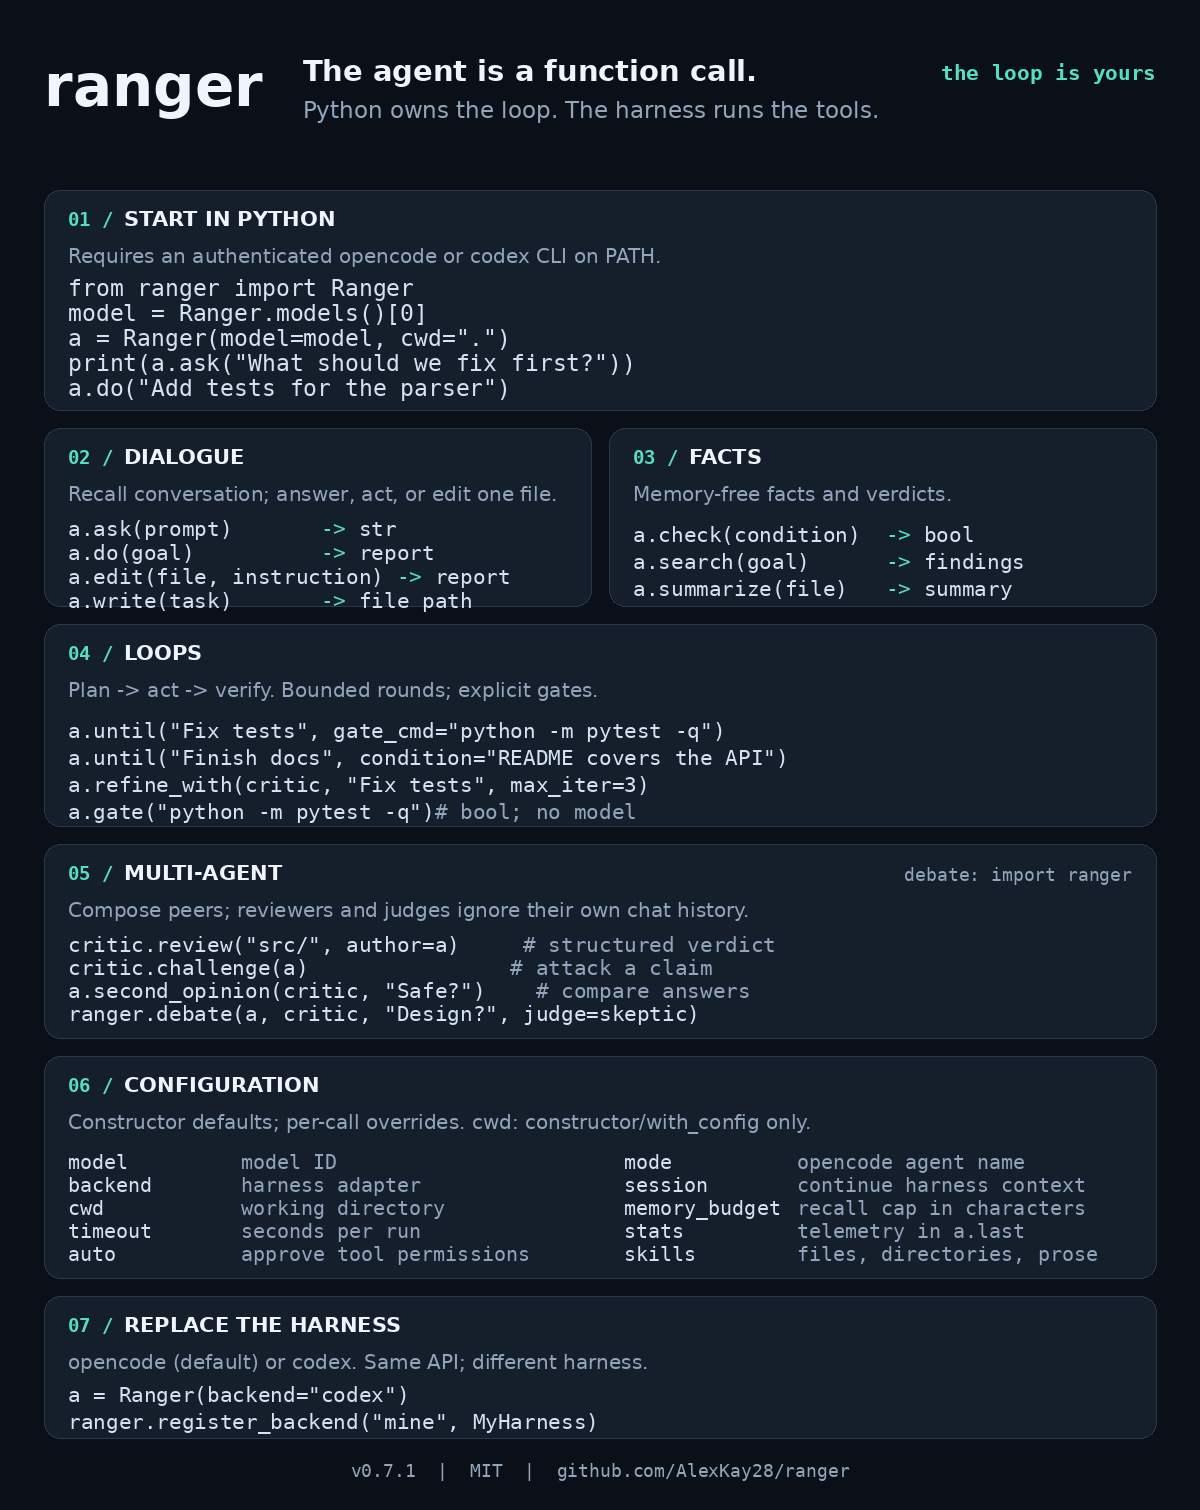
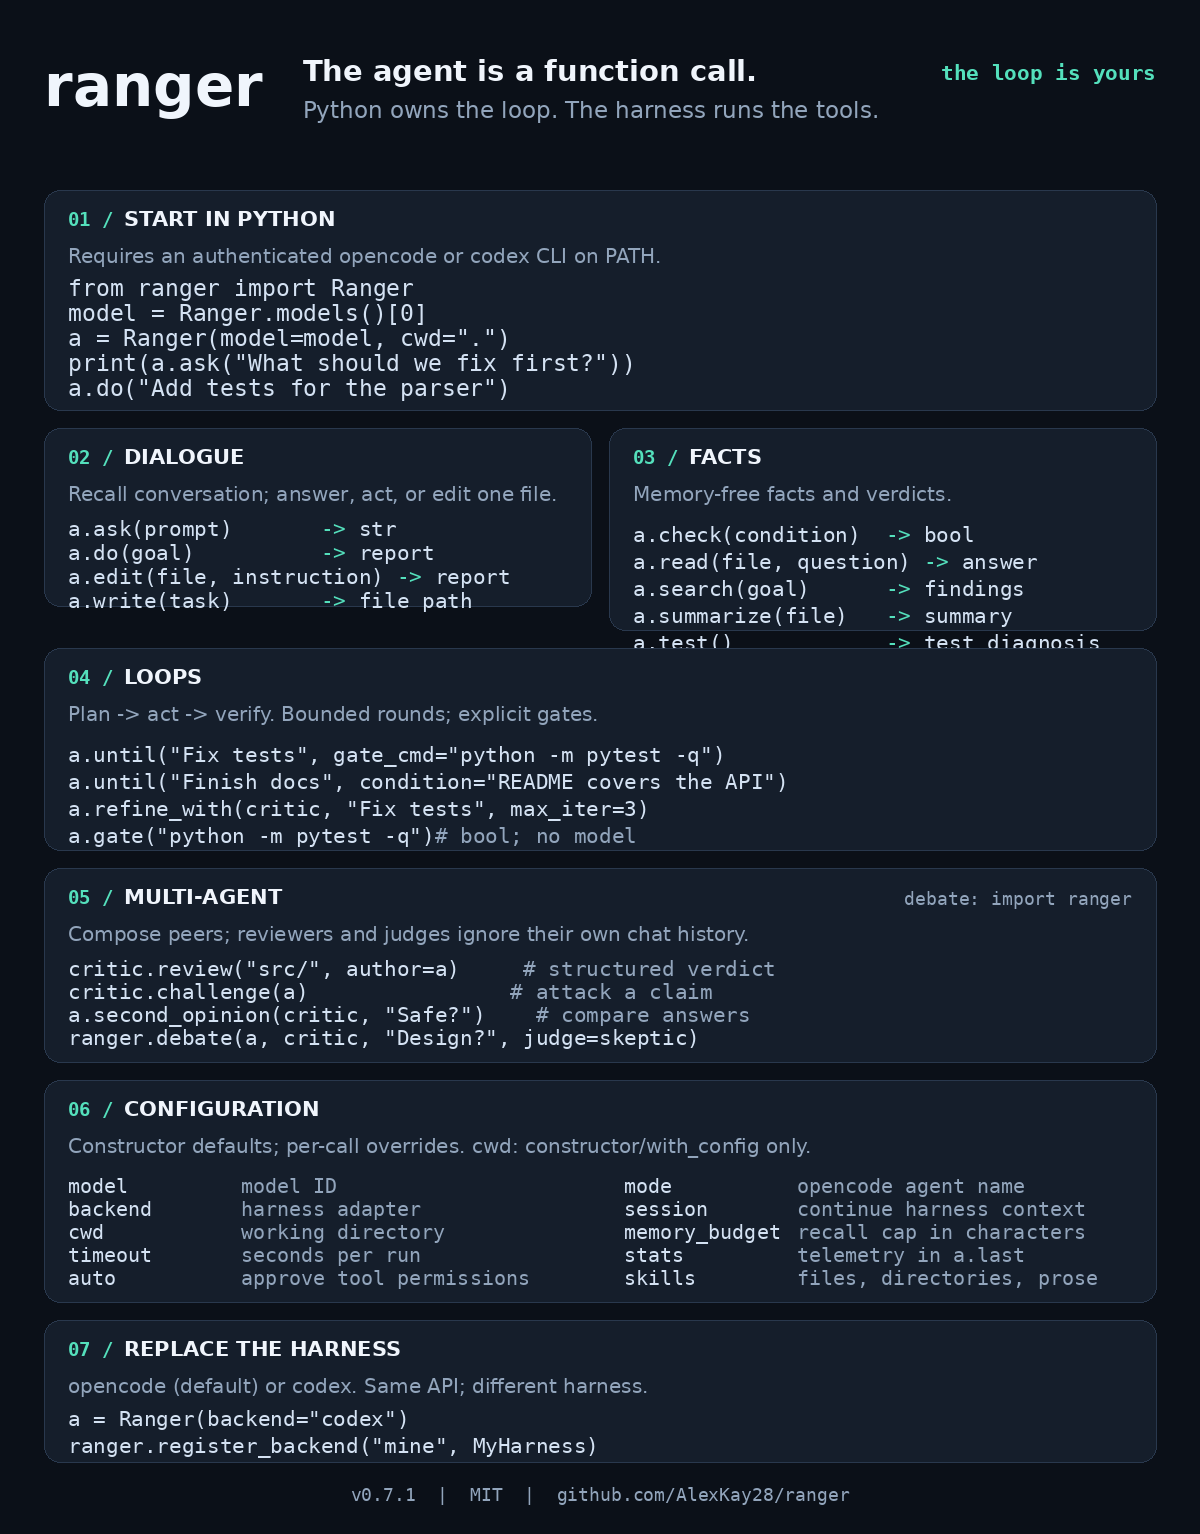
auto evolve (cycle 2): Add a targeted `read(file, question)` command
Self-directed improvement picked and resolved by scripts/evolve_loop.py via ranger.resolve(); gate: full pytest suite green + real-change check.

Original proposal: Thinking: **Planning file inspection with response limit**
Thinking: **Deciding precise read function approach**
TITLE: Add a targeted `read(file, question)` command
WHY: Let users ask a precise, read-only question about one file without spending a broader `ask()` call or accepting a generic summary. Its scoped prompt contract and mocked tests are mechanically verifiable with `python -m pytest -q`

diff --git a/tests/test_ranger.py b/tests/test_ranger.py
@@ -281,6 +281,7 @@ def test_command_prompt_contents(tmp_path):
 
     with mock.patch("ranger.subprocess.run", side_effect=capture):
         agent.summarize(target)
+        assert agent.read("notes.md", "What is the heading?", timeout=42) == "ok"
         agent.do("rename the files")
         target.write_text("before")
         agent.edit(target, "replace the text")
@@ -288,15 +289,18 @@ def test_command_prompt_contents(tmp_path):
         assert agent.test(timeout=42) == "ok"
 
     assert str(target.resolve()) in prompts[0]
-    assert "rename the files" in prompts[1]
-    assert str(target.resolve()) in prompts[2]
-    assert "replace the text" in prompts[2]
-    assert "only that file" in prompts[2]
-    assert "where is config parsed" in prompts[3]
-    assert "No code changes" in prompts[3]
-    assert "test suite" in prompts[4]
-    assert "do NOT modify" in prompts[4]
-    assert "root cause" in prompts[4]
+    assert str(target.resolve()) in prompts[1]
+    assert "What is the heading?" in prompts[1]
+    assert "do NOT modify" in prompts[1]
+    assert "rename the files" in prompts[2]
+    assert str(target.resolve()) in prompts[3]
+    assert "replace the text" in prompts[3]
+    assert "only that file" in prompts[3]
+    assert "where is config parsed" in prompts[4]
+    assert "No code changes" in prompts[4]
+    assert "test suite" in prompts[5]
+    assert "do NOT modify" in prompts[5]
+    assert "root cause" in prompts[5]
 
 
 def test_test_returns_harness_diagnosis_and_forwards_overrides():
@@ -310,6 +314,26 @@ def test_test_returns_harness_diagnosis_and_forwards_overrides():
     assert cmd[cmd.index("--model") + 1] == "fast/model"
     assert m.call_args.kwargs["timeout"] == 42
     assert agent.last["label"] == "test"
+
+
+def test_read_answers_one_file_question_and_forwards_overrides(tmp_path):
+    agent = Ranger(cwd=tmp_path, stats=True, session="ses_hist")
+    agent.context = [{"role": "user", "content": "previous answer"}]
+    payload = ('{"sessionID":"ses_read","part":{"type":"text",'
+               '"text":"It accepts strings."}}')
+    with mock.patch("ranger.subprocess.run", return_value=fake_run(payload)) as m:
+        assert agent.read("parser.py", "What inputs does it accept?",
+                          model="fast/model", timeout=42) == "It accepts strings."
+    cmd = m.call_args.args[0]
+    prompt = cmd[-1]
+    assert str(tmp_path / "parser.py") in prompt
+    assert "What inputs does it accept?" in prompt
+    assert "do NOT modify" in prompt
+    assert "Previous interaction" not in prompt
+    assert "ses_hist" not in cmd
+    assert cmd[cmd.index("--model") + 1] == "fast/model"
+    assert m.call_args.kwargs["timeout"] == 42
+    assert agent.last["label"] == "read"
 
 
 def test_edit_requires_a_changed_target_and_forwards_overrides(tmp_path):
@@ -942,13 +966,14 @@ def test_check_accepts_verdict_line_after_chatter():
 # paradigm law: context memory colors dialogues, never facts
 
 def test_recall_is_skipped_for_pure_commands():
-    """check/search/summarize run history-independent; ask/do recall."""
+    """check/read/search/summarize run history-independent; ask/do recall."""
     agent = Ranger()
     agent.context = [
         {"role": "user", "content": "we agreed the PORT is 8080"},
         {"role": "assistant", "content": "okay, 8080 it is"},
     ]
     for label, method in (("check", lambda: agent.check("port is 8080")),
+                           ("read", lambda: agent.read("x.py", "What port is used?")),
                            ("search", lambda: agent.search("PORT usage")),
                            ("summarize", lambda: agent.summarize("x.py"))):
         with mock.patch("ranger.subprocess.run",

diff --git a/scripts/cheatsheet.py b/scripts/cheatsheet.py
@@ -20,7 +20,7 @@ import ranger  # noqa: E402  (version string comes from the source of truth)
 from PIL import Image, ImageDraw, ImageFont  # noqa: E402
 
 REPO = Path(__file__).resolve().parent.parent
-W, H = 1200, 1510
+W, H = 1200, 1534
 PAD = 24
 RADIUS = 16
 
@@ -90,18 +90,19 @@ CARDS = [
         "code_step": 24,
     },
     {
-        "bounds": (609, 428, 547, 178),
+        "bounds": (609, 428, 547, 202),
         "num": "03", "title": "FACTS",
         "desc": "Memory-free facts and verdicts.",
         "code": [
             "a.check(condition)  -> bool",
+            "a.read(file, question) -> answer",
             "a.search(goal)      -> findings",
             "a.summarize(file)   -> summary",
             "a.test()            -> test diagnosis",
         ],
     },
     {
-        "bounds": (44, 624, 1112, 202),
+        "bounds": (44, 648, 1112, 202),
         "num": "04", "title": "LOOPS",
         "desc": "Plan -> act -> verify. Bounded rounds; explicit gates.",
         "code": [
@@ -112,7 +113,7 @@ CARDS = [
         ],
     },
     {
-        "bounds": (44, 844, 1112, 194),
+        "bounds": (44, 868, 1112, 194),
         "num": "05", "title": "MULTI-AGENT",
         "desc": "Compose peers; reviewers and judges ignore their own chat history.",
         "note": "debate: import ranger",
@@ -126,7 +127,7 @@ CARDS = [
         "code_step": 23,
     },
     {
-        "bounds": (44, 1056, 1112, 222),
+        "bounds": (44, 1080, 1112, 222),
         "num": "06", "title": "CONFIGURATION",
         "desc": "Constructor defaults; per-call overrides. cwd: constructor/with_config only.",
         "columns": [
@@ -147,7 +148,7 @@ CARDS = [
         ],
     },
     {
-        "bounds": (44, 1296, 1112, 142),
+        "bounds": (44, 1320, 1112, 142),
         "num": "07", "title": "REPLACE THE HARNESS",
         "desc": "opencode (default) or codex. Same API; different harness.",
         "code": [
@@ -242,7 +243,7 @@ def render():
 
     footer_f = mono(18)
     fw = d.textlength(FOOTER, font=footer_f)
-    d.text(((W - fw) / 2, 1460), FOOTER, font=footer_f, fill=COMMENT)
+    d.text(((W - fw) / 2, 1484), FOOTER, font=footer_f, fill=COMMENT)
 
     out = REPO / "docs" / "cheatsheet.png"
     img.save(out, optimize=True)

diff --git a/tests/test_docs.py b/tests/test_docs.py
@@ -81,7 +81,7 @@ def test_cheatsheet_is_embedded_and_covers_the_shipped_surface():
     assert width >= 1000 and height >= 1200
     # Public commands and the extensibility seam must occur in the source
     # data that renders the card. New API -> this gate reminds us to redraw.
-    for command in ("ask", "do", "edit", "write", "check", "search", "summarize", "test",
+    for command in ("ask", "do", "edit", "write", "check", "read", "search", "summarize", "test",
                     "gate", "until", "review", "challenge", "second_opinion",
                     "refine_with", "debate", "register_backend"):
         assert command in CHEATSHEET_SOURCE, (
@@ -134,7 +134,7 @@ def test_every_shipped_command_has_an_example_usage():
     all_example_text = "\n".join(
         p.read_text() for p in sorted((REPO / "examples").rglob("*.py"))
     )
-    for command in ("ask", "summarize", "write", "do", "edit", "search", "test", "check",
+    for command in ("ask", "read", "summarize", "write", "do", "edit", "search", "test", "check",
                     "gate", "until", "models", "with_config",
                     # multi-agent interactions (v0.6)
                     "review", "challenge", "second_opinion", "refine_with",
@@ -147,7 +147,7 @@ def test_every_shipped_command_has_an_example_usage():
 # --- commands.md catalog gates -------------------------------------------
 
 # Methods the catalog may legitimately list as planned (🔜/🌱 tiers).
-PLANNED_COMMANDS = {"critique", "read",
+PLANNED_COMMANDS = {"critique",
                    "fix", "transform", "commit"}
 
 _CATALOG_HEADER = re.compile(r"^### `(?:ranger\.)?(?:Ranger\.|agent\.)?(\w+)\s*\(",

diff --git a/ranger/__init__.py b/ranger/__init__.py
@@ -420,7 +420,7 @@ register_backend("openhands", _OpenHandsBackend)
 # Commands whose answers must be pure facts about the world, never colored
 # by conversation history (paradigm law: context memory colors dialogues,
 # never facts). Recall is skipped for these; recording still happens.
-_PURE_LABELS = frozenset({"check", "search", "summarize", "test"})
+_PURE_LABELS = frozenset({"check", "read", "search", "summarize", "test"})
 
 # How many characters of recorded context a run may recall, max.
 _MEMORY_BUDGET = 20000
@@ -772,6 +772,24 @@ class Ranger:
             "Reply with the summary text only, no preamble."
         )
         return self._run(prompt, label="summarize", **ov)
+
+    def read(self, file: str | Path, question: str, **ov) -> str:
+        """Answer a specific question about one file without modifying it.
+
+        Relative paths resolve against the agent's cwd, not the Python
+        process's. This command is history- and session-independent.
+        """
+        path = Path(file)
+        if not path.is_absolute():
+            path = Path(self.cwd or Path.cwd()) / path
+        prompt = (
+            f"Read only the file at {path.resolve()}.\n\n"
+            f"Question: {question}\n\n"
+            "Reading and analysis only — do NOT modify, create, delete, or "
+            "rename any file. Answer the question directly using evidence from "
+            "that file."
+        )
+        return self._run(prompt, label="read", **ov)
 
     def write(self, task: str, path: str | Path | None = None, **ov) -> str:
         """Have the agent produce a written document/answer as a file.

diff --git a/examples/monitoring/project_health.py b/examples/monitoring/project_health.py
@@ -25,6 +25,9 @@ def main() -> None:
         "or unhandled error paths. Include file paths and line numbers."
     )
     print("\nrisks:\n", findings)
+    print("\nhealth script role:\n", agent.read(
+        "project_health.py", "What read-only checks does this script perform?"
+    ))
     print("\nagent telemetry:", agent.last)
 
 

diff --git a/docs/API.md b/docs/API.md
@@ -100,7 +100,7 @@ ranger.Ranger(
 
 ### Child process environment
 
-Every harness child process (the `ask`/`do`/`edit`/`write`/`search`/`summarize`/`test`/`check`
+Every harness child process (the `ask`/`do`/`edit`/`write`/`read`/`search`/`summarize`/`test`/`check`
 CLI runs, and the `gate()` shell command) sees exactly this environment:
 
 1. **The full inherited `os.environ` of your Python process** — nothing is
@@ -126,7 +126,7 @@ the child by design.
 
 ### Per-call overrides
 
-Every command method (`ask`, `summarize`, `write`, `do`, `edit`, `search`, `test`, `check`,
+Every command method (`ask`, `summarize`, `read`, `write`, `do`, `edit`, `search`, `test`, `check`,
 `until`) accepts any of the run settings above as a keyword, applying it to
 that single call only — **except `cwd`**, which is agent identity and is
 constructor/`with_config`-only. Unknown keywords raise `TypeError`
@@ -143,7 +143,7 @@ immediately — typos fail loudly, never silently. Priority rules:
 - `effort="high"` implies `--thinking` on that run unless nothing stronger
   was requested; `effort` ∈ {low, medium, high} — anything else raises
   (`ValueError` at construction, `TypeError` per-call).
-- **Fact commands run pure**: `check`, `search`, `summarize` and `test` drop
+- **Fact commands run pure**: `check`, `read`, `search`, `summarize` and `test` drop
   `session=` and skip history recall — a verdict is about the repo, not
   the chat.
 
@@ -172,6 +172,14 @@ Raw prompt in, raw answer out. The escape hatch all other commands build on.
 Reads a file (path may be absolute or relative) and returns a concise
 summary. **Relative paths resolve against the agent's `cwd`, never the
 Python process's.**
+
+### `read(file, question, **ov) -> str`
+
+Answers a specific question using only one file, rather than producing
+`summarize()`'s general digest. `file` may be absolute or relative to the
+agent's `cwd`; relative paths resolve against that cwd. The prompt forbids
+modifying, creating, deleting, or renaming files. Like every fact command,
+`read()` runs without recalled history or a harness session.
 
 ### `write(task, path=None, **ov) -> str`
 
@@ -431,7 +439,7 @@ for r in results:
   recall the most recent messages that fit inside `memory_budget`
   characters, prepended as a `## Previous interaction` block before the
   `## Current request`.
-- **Fact commands run pure**: `check`, `search`, `summarize` and `test` never see
+- **Fact commands run pure**: `check`, `read`, `search`, `summarize` and `test` never see
   conversation history — a verdict must not be a function of chat
   (paradigm law: context memory colors your dialogues, never your facts).
 - `memory=False` (constructor or single call) disables both recording and
@@ -740,6 +748,7 @@ keep working:
 Each command wraps your input in a frozen prompt the agent must honor:
 
 - `summarize`: read `{absolute path}`, reply summary only.
+- `read`: answer `{question}` from `{absolute path}` only, **no file changes**.
 - `write`: write the file at `{path}`, reply with the path only.
 - `do`: accomplish `{goal}` with tools, report what changed.
 - `edit`: modify only the existing `{absolute path}`, report what changed.

diff --git a/docs/commands.md b/docs/commands.md
@@ -41,7 +41,7 @@ Wipe recorded context; returns what was cleared.
 
 All commands auto-record their exchange into `agent.context` (OpenAI message
 format); dialogue commands (`ask`, `do`, `edit`, `plan`, `write`, `context_*`) also recall
-recent history within a character budget, while fact commands (`check`,
+recent history within a character budget, while fact commands (`check`, `read`,
 `search`, `summarize`, `test`) always run history- and session-independent — context
 memory colors your dialogues, never your facts. `memory=False` on the
 constructor or any single call disables recording and recall.
@@ -63,7 +63,7 @@ configured copy.
 - `stats=True` — JSON-mode runs; after each command `agent.last` holds
   `wall_s`, `model_s`, `parts`, `chars`, `session`.
 
-## ✅ Shipped — core commands (14)
+## ✅ Shipped — core commands
 
 ### `until(goal, max_iter=5, gate_cmd=None, condition=None) -> dict`
 The loop primitive. Each iteration: `ask` for ONE next step, `do` it, then a
@@ -87,6 +87,15 @@ bigger call.
 
 ```python
 agent.summarize("notes.md")
+```
+
+### `read(file, question) -> str`
+Ask a precise, read-only question about one file instead of receiving a general
+summary. The path resolves against the agent cwd; the call is history- and
+session-independent and its prompt forbids filesystem changes.
+
+```python
+agent.read("src/parser.py", "What input shapes can raise ValueError?")
 ```
 
 ### `write(task, path=None) -> str` *(returns file path)*
@@ -217,16 +226,12 @@ Adversarial attack on another agent's claim or last answer.
 ### `debate(agent_a, agent_b, topic, rounds=2, judge=None) -> dict` *(module-level)*
 Symmetric exchange, optionally refereed by a third agent.
 
-## 🔜 Next batch (planned, same pattern) (3)
+## 🔜 Next batch (planned, same pattern) (2)
 
 ### `critique(file_or_diff) -> str`
 Read-only code review of a file or diff: bugs, smells, security, missing
 tests. (Distinct from the shipped multi-agent `review`, which renders an
 APPROVE/REJECT verdict between agents; this is a prose critique of code.)
-
-### `read(file, question) -> str`
-Pointed Q&A about one file ("what inputs can crash this?"), vs `summarize`'s
-general digest.
 
 ## 🌱 Later (3)
 

diff --git a/SKILL.md b/SKILL.md
@@ -26,7 +26,7 @@ it returns. Python, not an agent runtime, owns the control flow.
 | Make a filesystem change | `do(goal)` | A claim that a change happened |
 | Change one existing file only | `edit(file, instruction)` | `do()` free rein |
 | Produce one document | `write(task, path=...)` | Parsing prose for a filename |
-| Read-only codebase findings | `search(goal)` / `summarize(file)` / `test()` | `do()` |
+| Read-only codebase findings | `search(goal)` / `summarize(file)` / `read(file, question)` / `test()` | `do()` |
 | Agent-verified fact | `check(condition)` | Truthy prose; it must parse YES/NO |
 | Deterministic acceptance | `gate(shell_command)` | An agent's opinion |
 | Bounded repair loop | `until(..., gate_cmd=..., max_iter=N)` | An unbounded `while` loop |
@@ -57,7 +57,7 @@ an exit-code boolean and does not call a model.
   interrupt message; nothing is claimed complete.
 - `ask`, `do`, `edit`, and `write` record and recall bounded `agent.context`. Treat it
   as conversational color, never as a fact store.
-- `check`, `search`, `summarize`, `test`, `review`, challenge judgments, and debate
+- `check`, `read`, `search`, `summarize`, `test`, `review`, challenge judgments, and debate
   judges are memory- and session-free by contract. Do not try to override that
   purity with `session=`.
 - A model answer is not a success signal. `check()` rejects ambiguous,

diff --git a/README.md b/README.md
@@ -79,6 +79,7 @@ package default.
 ```python
 agent = ranger.Ranger(model="openrouter/anthropic/claude-sonnet-4.5")
 agent.summarize("notes.md")          # -> str summary of the file
+agent.read("notes.md", "What decision does it make?")  # -> focused file answer
 agent.write("a one-page report on X")  # -> path of the file the agent wrote
 agent.do("rename all *.txt files in data/ to *.md")  # -> report of CLI-like work
 agent.edit("src/parser.py", "Handle empty input")   # -> one bounded file change
@@ -145,7 +146,7 @@ ranger.Ranger(memory=False)      # or a fully stateless agent
 ```
 
 Context memory colors your dialogues, never your facts: `ask`/`do`/`edit`/`write`
-recall the recent conversation; `check`/`search`/`summarize`/`test` always run
+recall the recent conversation; `check`/`read`/`search`/`summarize`/`test` always run
 history-independent, so a verdict is about the repo, not the chat
 ([PARADIGM.md](docs/PARADIGM.md), law 4).
 

diff --git a/docs/PARADIGM.md b/docs/PARADIGM.md
@@ -50,7 +50,7 @@ Python control flow**. No DSL, no graph JSON, no hidden runtime.
    ambient identity: sessions are opt-in continuation, not hidden state.
    Corollary — **context memory colors your dialogues, never your facts**:
    recall applies only to dialogue commands (`ask`, `do`, `write`,
-   `context_*`); `check`, `search` and `summarize` always run
+   `context_*`); `check`, `read`, `search` and `summarize` always run
    history-independent, because a verdict must not be a function of chat.
    The same corollary governs multi-agent interactions: reviewers,
    challengers and judges run memory- and session-free, and one agent's

diff --git a/docs/ARCHITECTURE.md b/docs/ARCHITECTURE.md
@@ -60,7 +60,7 @@ register) from plain Python. You write code, not chat.
    (stream → answer + optional telemetry).
 3. **State is explicit and pure where it matters.** `agent.context` is
    a visible message list; dialogue commands recall bounded recent
-   history, while fact commands (`check`, `search`, `summarize`,
+    history, while fact commands (`check`, `read`, `search`, `summarize`,
    `review`) and judges run history- and session-free — a verdict must
    not be a function of chat. One agent's words reach another only as
    explicitly-labeled *claims to verify*.
